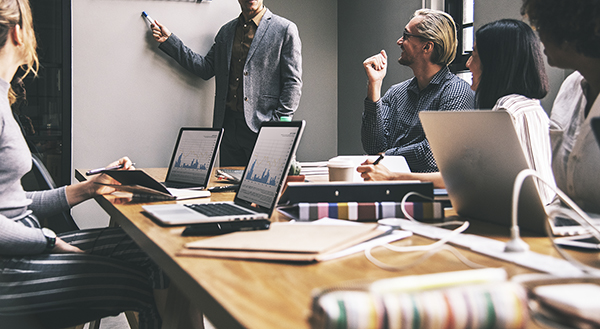
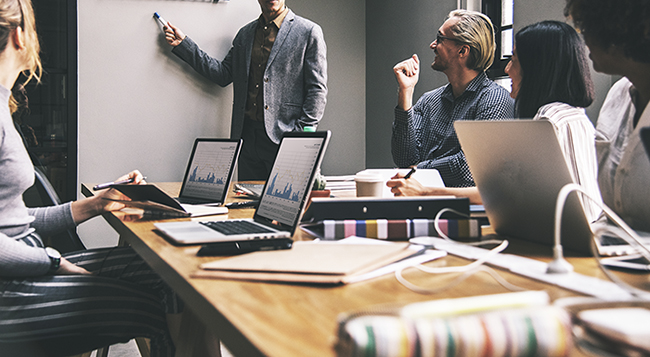
Index
Agrego foto de index
Incluyo pantalla Servicios

diff --git a/Servicios.html b/Servicios.html
@@ -54,19 +54,11 @@
         </div>
     
     </nav>
-
-    <div class="col-md-5 ">
-            <img src="/img/25060.jpg" class="img-responsive" alt="titulo"/>
+    <div class="col-md-12 ">
+            <img src="/img/1837.jpg" class="img-responsive/>
                      
         </div>
-<div class="col-md-6">
-        <p class="text-justify" >Lorem ipsum dolor sit amet, consectetur adipiscing elit, sed do eiusmod tempor incididunt ut labore et dolore magna aliqua. Ut enim ad minim veniam, quis nostrud exercitation ullamco laboris nisi ut aliquip ex ea commodo consequat. Duis aute irure dolor in reprehenderit in voluptate velit esse cillum dolore eu fugiat nulla pariatur. Excepteur sint occaecat cupidatat non proident, sunt in culpa qui officia deserunt mollit anim id est laborum
 
-            
-        </p>
-  
-
-    </div>
 
 
     <!--===========================================================================-->

diff --git a/index.html b/index.html
@@ -38,7 +38,7 @@
                     <a class="nav-link" href="#">Empresas</a>
                 </li>
                 <li class="nav-item">
-                    <a class="nav-link" href="#">Nosotros</a>
+                    <a class="nav-link" href="/Nosotros.html">Nosotros</a>
                 </li>
             </ul>
             <form class="form-inline my-2 my-lg-0">
@@ -55,6 +55,7 @@
 
     </nav>
 
+    
     <!--===========================================================================-->
 
     <script src="/js/jquery-3.3.1.min.js"></script>

diff --git a/css/bootstrap/bootstrap.css b/css/bootstrap/bootstrap.css
@@ -997,12 +997,15 @@ pre code {
   .col-md-5 {
     flex: 0 0 41.6666666667%;
     max-width: 41.6666666667%;
+    display: inline;
+  
   }
 
   .col-md-6 {
-    margin-top: 2%;
+    margin-top: 1%;
     flex: 0 0 50%;
     max-width: 50%;
+    display: inline-block;
   }
 
   .col-md-7 {
